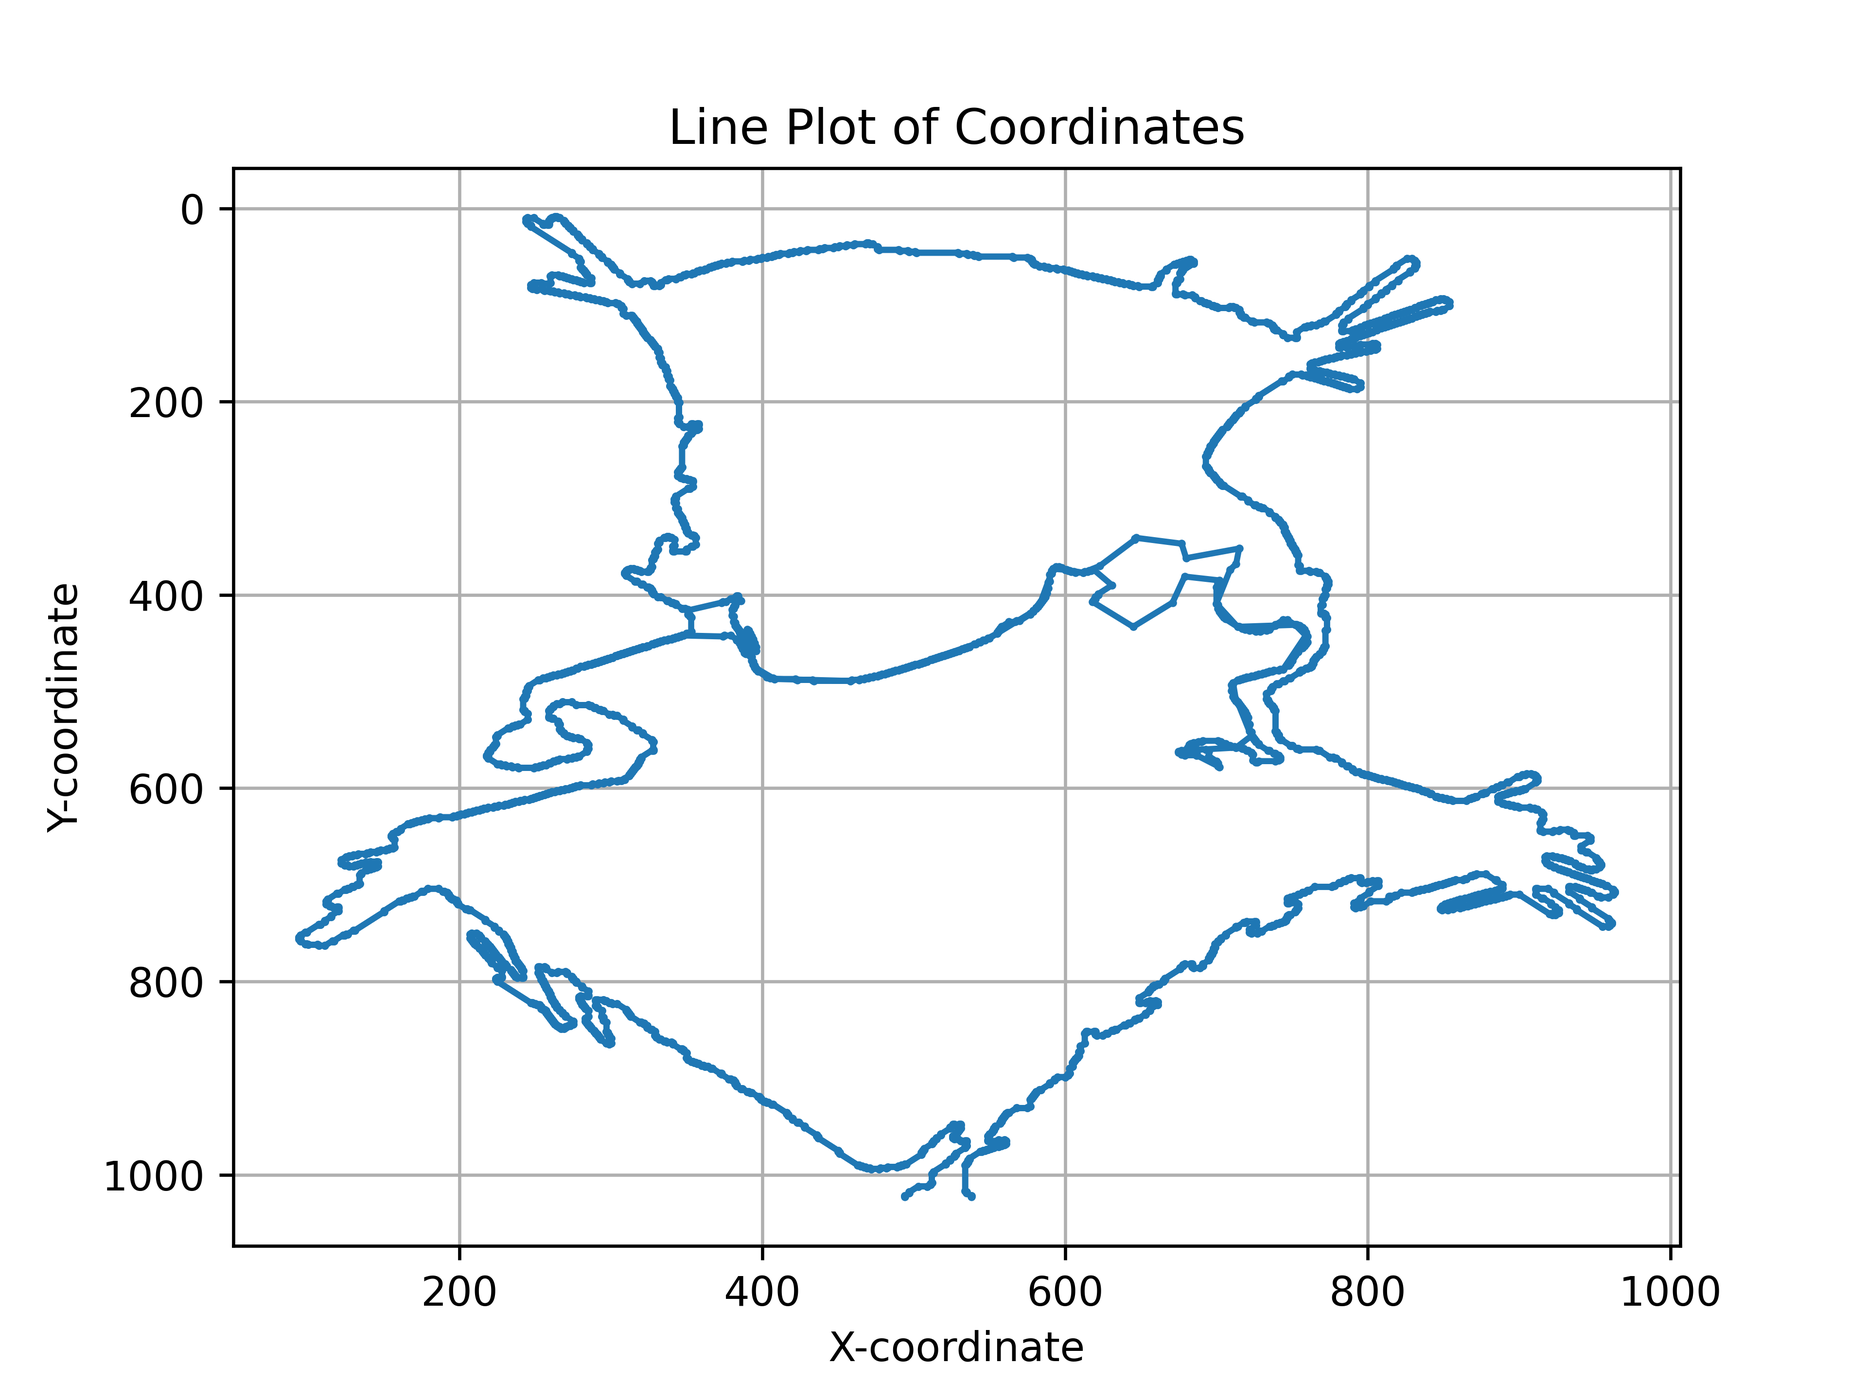
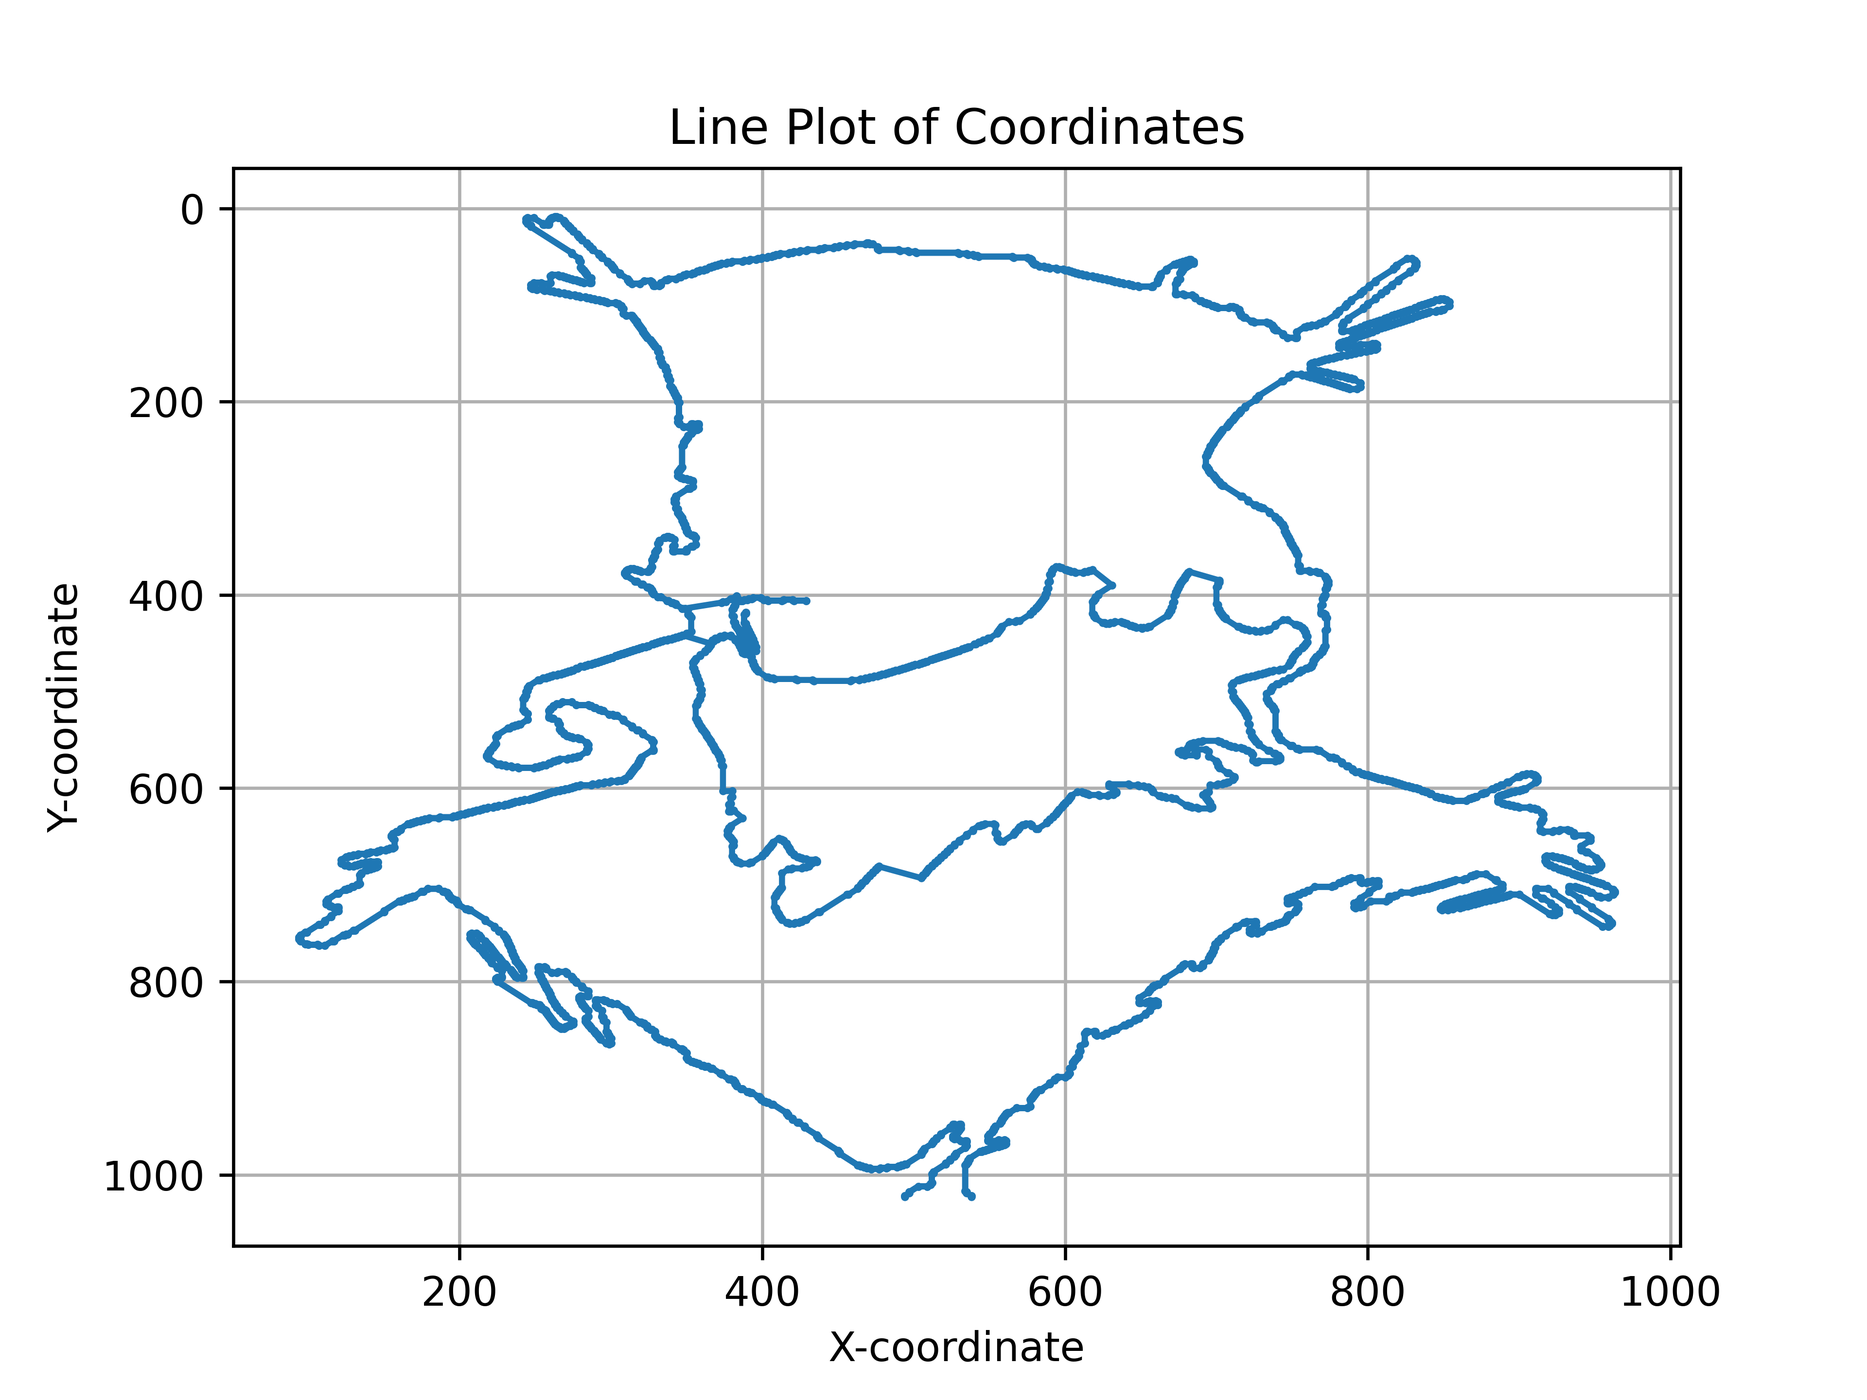
Improved snake, better poly fill, perf trimming down to <2 seconds woo!

diff --git a/helpers/mazify/MazeAgent.py b/helpers/mazify/MazeAgent.py
@@ -3,7 +3,7 @@ from logging import exception
 import itertools
 import numpy as np
 from scipy.spatial import ConvexHull
-from PIL import Image
+# from PIL import Image
 import matplotlib.pyplot as plt
 import time
 from scipy.signal import convolve2d
@@ -208,16 +208,19 @@ class MazeAgent:
                                          p['outer_in_tracker'].section.coords_sec, p['focus_in_section'].coords_sec,
                                                   weight='weight')[:-1])
 
-            focus_end1, focus_end2 = self.find_maximal_quadrilateral_optimized(p['focus_sections'],
-                                                                   p['focus_in_section'].coords_sec,
-                                                                   p['focus_out_section'].coords_sec)
+            # focus_poly_points = self.find_maximal_quadrilateral_optimized(p['focus_sections'],
+            #                                                        p['focus_in_section'].coords_sec,
+            #                                                        p['focus_out_section'].coords_sec)
 
-            sections_nodes_path.extend(nx.shortest_path(self.maze_sections.path_graph, p['focus_in_section'].coords_sec,
-                                    focus_end1, weight='weight')[:-1])
-            sections_nodes_path.extend(nx.shortest_path(self.maze_sections.path_graph, focus_end1, focus_end2,
-                                                  weight='weight')[:-1])
-            sections_nodes_path.extend(nx.shortest_path(self.maze_sections.path_graph, focus_end2,
-                                                  p['focus_out_section'].coords_sec, weight='weight')[:-1])
+            focus_poly_points = self.find_maximal_polygon_optimized(p['focus_sections'],
+                                                                   p['focus_in_section'].coords_sec,
+                                                                   p['focus_out_section'].coords_sec,
+                                                                    options.snake_details_polygon_faces)
+            for h in range(len(focus_poly_points) - 1):
+                sections_nodes_path.extend(
+                    nx.shortest_path(self.maze_sections.path_graph, focus_poly_points[h], focus_poly_points[h + 1],
+                                     weight='weight')[:-1])
+
             #NOTE: we want to include the last node this time, do not discount
             sections_nodes_path.extend(nx.shortest_path(self.maze_sections.path_graph, p['focus_out_section'].coords_sec,
                                                   p['outer_out_tracker'].section.coords_sec, weight='weight')[:])
@@ -238,7 +241,7 @@ class MazeAgent:
         jump_path = False
         prev_sect, cur_sect, next_sect = None, None, None
         cur_tracker = None
-        cur_tracker_idx = 0
+        cur_tracker_idx = -1
         path_rev = False
         inflection_out = None
         for i in range(len(sections_nodes_path)):
@@ -252,18 +255,26 @@ class MazeAgent:
                 if inflection_out is not None:
                     cur_tracker_idx = inflection_out['tracker_path_idx']
                 else:
-                    cur_tracker_idx = 0
+                    cur_tracker_idx = -1
                 inflection_out = None
                 cur_tracker = self.all_contours_objects[cur_sect[2] - 1].section_tracker[cur_sect[3]]
                 if next_sect is not None and len(next_sect) == 4:
-                #Tracker identified, check if prev sect lines up
-                    if next_sect[2] != cur_sect[2] or abs(next_sect[3] - cur_sect[3]) != 1:
+                    #Tracker identified, check if prev sect lines up
+                    trackers_in_path = len(cur_tracker.path.section_tracker)
+                    if (next_sect[2] != cur_sect[2] or cur_sect[3] not in
+                        ((next_sect[3] + 1)%trackers_in_path, (next_sect[3] - 1)%trackers_in_path)):
                         raise exception("Something screwy with tracking")
-                    path_rev = next_sect[3] < cur_sect[3]
+                    path_rev = (cur_sect[3] - 1)%trackers_in_path == next_sect[3]
                     if path_rev:
-                        nodes_path.extend(list(reversed(cur_tracker.nodes[:cur_tracker_idx + 1])))
+                        if cur_tracker_idx == -1:
+                            nodes_path.extend(list(reversed(cur_tracker.nodes)))
+                        else:
+                            nodes_path.extend(list(reversed(cur_tracker.nodes[:cur_tracker_idx + 1])))
                     else:
-                        nodes_path.extend(cur_tracker.nodes[cur_tracker_idx:])
+                        if cur_tracker_idx == -1:
+                            nodes_path.extend(cur_tracker.nodes)
+                        else:
+                            nodes_path.extend(cur_tracker.nodes[cur_tracker_idx:])
                 elif next_sect is not None:
                     #Entering into the abyss, look for next insersection
                     next_trackerized_sect, sections_path_idx = None, -1
@@ -282,19 +293,47 @@ class MazeAgent:
                                                                             next_tracker.nodes,
                                                                             retrieve_idxs=True))
                             if path_rev:
-                                nodes_path.extend(list(reversed(cur_tracker.nodes[inflec_nodes[0]:cur_tracker_idx + 1])))
+                                if cur_tracker_idx == -1:
+                                    nodes_path.extend(list(reversed(cur_tracker.nodes[inflec_nodes[0]:])))
+                                else:
+                                    nodes_path.extend(list(reversed(cur_tracker.nodes[inflec_nodes[0]:cur_tracker_idx + 1])))
                             else:
-                                nodes_path.extend(cur_tracker.nodes[cur_tracker_idx:inflec_nodes[0] + 1])
+                                if cur_tracker_idx == -1:
+                                    nodes_path.extend(cur_tracker.nodes[:inflec_nodes[0]:])
+                                else:
+                                    nodes_path.extend(cur_tracker.nodes[cur_tracker_idx:inflec_nodes[0] + 1])
 
                             inflection_out = {"sections_path_idx": sections_path_idx, "tracker_path_idx": inflec_nodes[1]}
 
-                            #TODO: Figure out something more graceful when dupl trackers
+                        else:
+                            midpoint = len(cur_tracker.nodes)//2
+                            if path_rev:
+                                if cur_tracker_idx == -1:
+                                    nodes_path.extend(list(reversed(cur_tracker.nodes[midpoint:])))
+                                else:
+                                    if midpoint >= cur_tracker_idx: midpoint = max(0, cur_tracker_idx - 1)
+                                    nodes_path.extend(list(reversed(cur_tracker.nodes[midpoint:cur_tracker_idx + 1])))
+                            else:
+                                if cur_tracker_idx == -1:
+                                    nodes_path.extend(cur_tracker.nodes[:midpoint])
+                                else:
+                                    if midpoint <= cur_tracker_idx: midpoint = min(len(cur_tracker.nodes) - 1,
+                                                                                   cur_tracker_idx + 1)
+                                    nodes_path.extend(cur_tracker.nodes[cur_tracker_idx:midpoint + 1])
+
+                            inflection_out = {"sections_path_idx": sections_path_idx, "tracker_path_idx": midpoint}
                 else:
                     #Run out the last section
                     if path_rev:
-                        nodes_path.extend(list(reversed(cur_tracker.nodes[:cur_tracker_idx + 1])))
+                        if cur_tracker_idx == -1:
+                            nodes_path.extend(list(reversed(cur_tracker.nodes)))
+                        else:
+                            nodes_path.extend(list(reversed(cur_tracker.nodes[:cur_tracker_idx + 1])))
                     else:
-                        nodes_path.extend(cur_tracker.nodes[cur_tracker_idx:])
+                        if cur_tracker_idx == -1:
+                            nodes_path.extend(cur_tracker.nodes)
+                        else:
+                            nodes_path.extend(cur_tracker.nodes[cur_tracker_idx:])
 
                 #MAKE SURE set dir when non tracker (shouldn't be issue but maybe check)
 
@@ -322,7 +361,72 @@ class MazeAgent:
                 max_end1 = tuple(end1)
                 max_end2 = tuple(end2)
 
-        return max_end1, max_end2
+        return [start1, max_end1, max_end2, start2]
+
+    def find_maximal_polygon_optimized(self, coords, start1, start2, faces):
+        coords_s = set([tuple(row) for row in coords])
+        coords_s.remove(start1)
+        coords_s.remove(start2)
+        coords_array = np.array(list(coords_s))
+
+        hull = ConvexHull(coords_array)
+        hull_points = coords_array[hull.vertices]
+
+        max_area = 0
+        largest_polygon_nd = None
+        start1_nd, start2_nd = np.array(start1), np.array(start2)
+
+        for combination in itertools.combinations(hull_points, faces - 2):
+            polygon_points = list(combination) + [start1_nd, start2_nd]
+            for poly_perm in itertools.permutations(polygon_points):
+                poly_perm_nd = np.array(poly_perm)
+                # check that the start points are next to one another.
+                matches = np.all(poly_perm_nd == start1_nd, axis=1)
+                start1_index = np.where(matches)[0]
+                matches = np.all(poly_perm_nd == start2_nd, axis=1)
+                start2_index = np.where(matches)[0]
+
+                # start1_index, start2_index = -1, -1
+                # for i in range(len(poly_perm)):
+                #     if np.array_equal(poly_perm[i], start1_nd): start1_index = i
+                #     elif np.array_equal(poly_perm[i], start2_nd): start2_index = i
+                #     if start1_index > -1 and start2_index > -1: break
+                # start1_index = poly_perm.index(start1_nd)
+                # start2_index = poly_perm.index(start2_nd)
+
+                if abs(start1_index - start2_index) == 1 or abs(start1_index - start2_index) == faces - 1:
+
+                    area = self.calculate_polygon_area(poly_perm)
+                    if area > max_area:
+                        max_area = area
+                        largest_polygon_nd = poly_perm_nd
+
+        if largest_polygon_nd is None:
+            return None
+
+        # Reorder the largest polygon to start from start1 and end with start2
+        matches = np.all(largest_polygon_nd == start1_nd, axis=1)
+        start1_index = np.where(matches)[0][0]
+        matches = np.all(largest_polygon_nd == start2_nd, axis=1)
+        start2_index = np.where(matches)[0][0]
+        largest_polygon = largest_polygon_nd.tolist()
+
+        #Flip around, we need start2 in front to bring around to end of tour
+        if (start1_index + 1)%faces == start2_index:
+            largest_polygon = list(reversed(largest_polygon))
+            start1_index = faces - 1 - start1_index
+            start2_index = faces - 1 - start2_index
+
+        ordered_polygon = largest_polygon[start1_index:] + largest_polygon[:start1_index]
+
+        return [tuple(p) for p in ordered_polygon]
+
+    def calculate_polygon_area(self, points):
+        """Calculates the area of a polygon using the shoelace formula."""
+        points = np.array(points)
+        x = points[:, 0]
+        y = points[:, 1]
+        return 0.5 * np.abs(np.sum(x[:-1] * y[1:] - y[:-1] * x[1:]) + x[-1] * y[0] - y[-1] * x[0])
 
     def calculate_quadrilateral_area(self, p1, p2, p3, p4):
         """

diff --git a/Testing.py b/Testing.py
@@ -1,21 +1,21 @@
 import os
 import cv2
-from skimage.segmentation import mark_boundaries
+# from skimage.segmentation import mark_boundaries
 from skimage.util import img_as_float
 import numpy as np
 import time
-import svgwrite as svg
+# import svgwrite as svg
 import matplotlib.pyplot as plt
 from datetime import date
 
 from helpers.mazify.MazeAgent import MazeAgent
 import helpers.edge_detect.SLIC_Segmentation as slic
-import helpers.edge_detect.edge_detection as edge
-import helpers.old_method.DrawingAgent as draw
+# import helpers.edge_detect.edge_detection as edge
+# import helpers.old_method.DrawingAgent as draw
 import helpers.Enums as Enums
-import helpers.old_method.ParsePathsIntoObjects as parse
-from helpers.old_method import TourConstraints as constr
-import helpers.old_method.NodeSet as NodeSet
+# import helpers.old_method.ParsePathsIntoObjects as parse
+# from helpers.old_method import TourConstraints as constr
+# import helpers.old_method.NodeSet as NodeSet
 from helpers.mazify.MazeSections import MazeSections, MazeSection
 import helpers.mazify.temp_options as options
 
@@ -76,8 +76,9 @@ def draw_object_node_path(image, object_path, color=(0, 0, 255), thickness=2):
 
 for file in os.listdir("Trial-AI-Base-Images"):
     if file.endswith(".jpg") or file.endswith(".png"):
+      start_pre = time.time_ns()
       image_path = os.path.join("Trial-AI-Base-Images", file)
-      postedge, split_contours = edge.detect_edges(image_path)
+      # postedge, split_contours = edge.detect_edges(image_path)
 
       #TODO: maybe just run edge detect on details regions spec by user
       #use SLIC  for tracing, maybe build agent so it follows line lke maze then jumps to next as needed
@@ -117,7 +118,7 @@ for file in os.listdir("Trial-AI-Base-Images"):
                                                                                           num_segments=options.slic_regions,
                                                                                           enforce_connectivity=False,
                                                                                           contour_offset = len(outer_contours_yx))
-
+      start = time.time_ns()
       crop = (tuple([min(o, c) for o, c in zip(bounds_outer[0], bounds_inner[0])]),
               tuple([max(o, c) for o, c in zip(bounds_outer[1], bounds_inner[1])]))
 
@@ -131,6 +132,11 @@ for file in os.listdir("Trial-AI-Base-Images"):
       # transition_nodes = slic.find_transition_nodes(segments)
       #
       edges_show = edges.astype(np.uint8) * 255
+      end = time.time_ns()
+      print(str((end - start)/1e6) + " ms to do crop stuff")
+
+      end_pre = time.time_ns()
+      print(str((end_pre - start_pre)/1e6) + " ms to do all pre-processing")
       # cv2.imshow("outer", outer_edges.astype(np.uint8) * 255)
       cv2.imshow("inner", inner_edges.astype(np.uint8) * 255)
       # cv2.imshow("outer", outer_edges.astype(np.uint8) * 255)

diff --git a/helpers/edge_detect/SLIC_Segmentation.py b/helpers/edge_detect/SLIC_Segmentation.py
@@ -9,6 +9,7 @@ import math
 import matplotlib.pyplot as plt
 # from shapely.geometry import LineString
 # from simplification.cutil import simplify_coords
+import time
 
 import helpers.mazify.temp_options as options
 
@@ -77,6 +78,7 @@ def mask_test_boundaries(img_path, split_contours):
 	return find_contours_near_boundaries(split_contours, mask, tolerance=2), mask
 
 def mask_boundary_edges(img_path):
+	start = time.time_ns()
 	#NOTE: only work PNG with transparent bg, or where background is all white
 	img = cv2.imread(img_path, cv2.IMREAD_UNCHANGED)
 	mask = None
@@ -150,11 +152,14 @@ def mask_boundary_edges(img_path):
 
 		flipped_contours.append(cur_contour)
 
+	end = time.time_ns()
+	print(str((end - start)/1e6) + " ms to do mask stuff")
 	return edges_final, flipped_contours,  mask, ((min_y, min_x), (max_y, max_x))
 
 def slic_image_boundary_edges(im_float, num_segments:int =2, enforce_connectivity:bool = True, contour_offset = 0):
 	segments = None
 	num_segs_actual = -1
+	start = time.time_ns()
 	for num_segs in range(num_segments, num_segments+20):
 		segments_trial = slic(im_float, n_segments=num_segs, sigma=5, enforce_connectivity=enforce_connectivity)
 		if np.max(segments_trial) > 1:
@@ -162,8 +167,11 @@ def slic_image_boundary_edges(im_float, num_segments:int =2, enforce_connectivit
 			num_segs_actual = num_segs
 			break
 	if segments is None: raise Exception("Segmentation failed, image too disparate for outlining")
+	end = time.time_ns()
+	print(str((end - start)/1e6) + " ms to segment image with " + str(num_segs_actual) + " segments")
 
 	#Determine contours
+	start = time.time_ns()
 	contours = []
 	for segment_val in range(1, np.max(segments)+1):
 		finder = np.where(segments == segment_val, 255, 0).astype(np.uint8)
@@ -178,6 +186,8 @@ def slic_image_boundary_edges(im_float, num_segments:int =2, enforce_connectivit
 		cv2.drawContours(edges, contours, contour_idx, (contour_idx + 1 + contour_offset,
 														contour_idx + 1 + contour_offset,
 														contour_idx + 1 + contour_offset))
+	end = time.time_ns()
+	print(str((end - start)/1e6) + " ms to find contours with " + str(len(contours)) + " contours")
 
 	#Wipe outside edge, false contours
 	perimeter_mask = np.zeros_like(edges, dtype=bool)

diff --git a/helpers/mazify/temp_options.py b/helpers/mazify/temp_options.py
@@ -21,7 +21,7 @@ dir_smoothing_size, dir_smoothing_sigma = 21, 2.0
 dumb_node_optional_weight = 1
 dumb_node_min_opt_weight_reduced = 1
 dumb_node_blank_weight = 200
-dumb_node_jump_weight = 15
+dumb_node_jump_weight = 4
 dumb_node_required_weight = 1
 
 section_tracker_max_walk = 20
@@ -30,6 +30,7 @@ outer_contour_length_cutoff = 200
 inner_contour_length_cutoff = 60
 
 snake_trace_max_jump_from_outer = 2
+snake_details_polygon_faces = 7
 
 
 #CALCULATED DO NOT TOUCH!!

diff --git a/helpers/mazify/MazeAgentHelpers.py b/helpers/mazify/MazeAgentHelpers.py
@@ -1,8 +1,8 @@
 import numpy as np
-from numpy.ma.core import indices
-from shapely.geometry import LineString, Point, MultiPoint
+# from numpy.ma.core import indices
+# from shapely.geometry import LineString, Point, MultiPoint
 import math
-import time
+# import time
 
 import helpers.mazify.temp_options as options
 from helpers.Enums import CompassDir

diff --git a/helpers/mazify/MazeSections.py b/helpers/mazify/MazeSections.py
@@ -1,7 +1,7 @@
 import numpy as np
-from scipy.signal import convolve2d
+# from scipy.signal import convolve2d
 import networkx as nx
-import copy as cp
+# import copy as cp
 
 import helpers.mazify.temp_options as options
 from helpers.mazify.EdgeNode import EdgeNode
